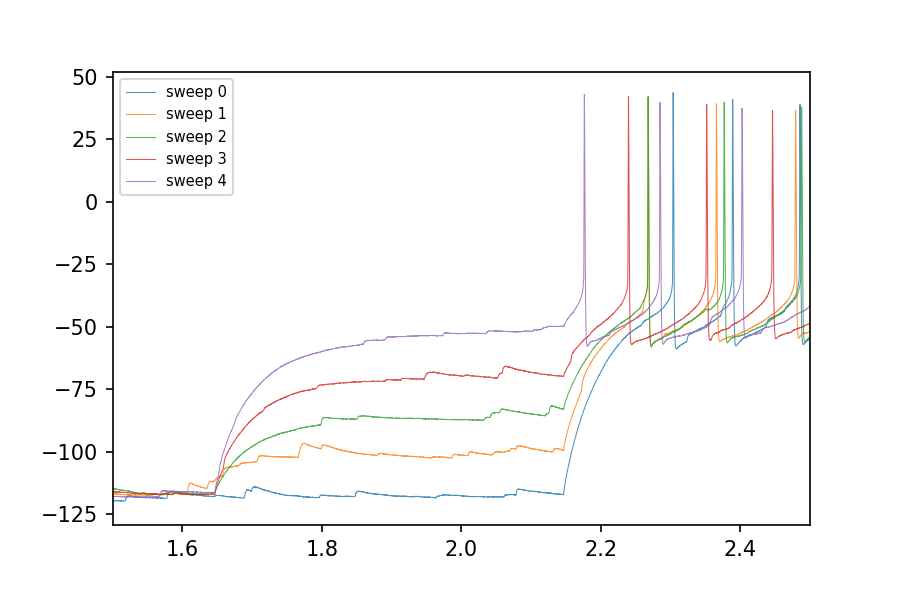
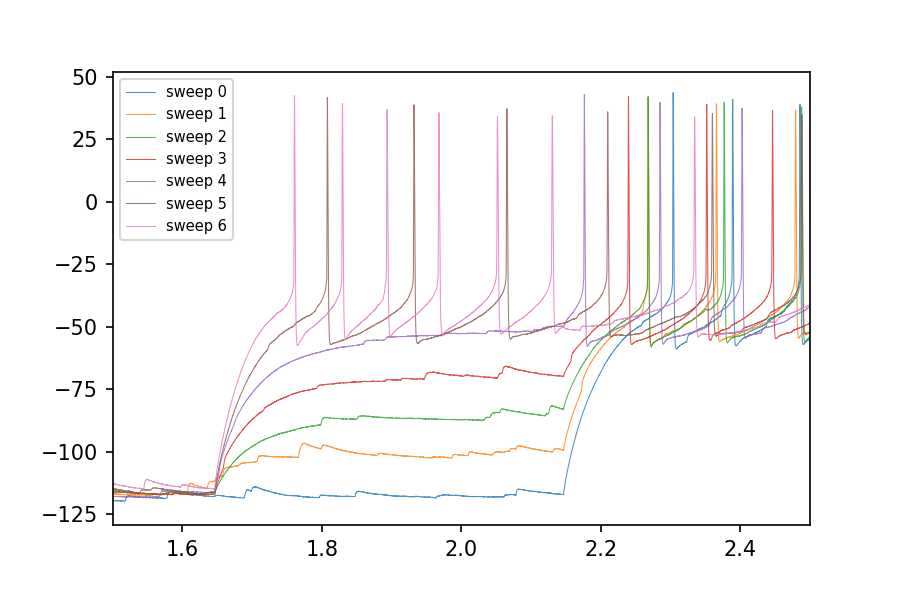
better demo figure

diff --git a/doc/abf-file-format/example code/2017-10-10 smaller cleaner/header.py b/doc/abf-file-format/example code/2017-10-10 smaller cleaner/header.py
@@ -249,7 +249,7 @@ if __name__=="__main__":
     import numpy as np
 
     times = abfHeader.getTimesSweep()
-    for sweepNumber in range(5):
+    for sweepNumber in range(7):
         data=abfHeader.getDataSweep(sweepNumber)
         data=np.array(data)*abfHeader.header['signalScale']
         plt.plot(times,data,alpha=.8,lw=.5,label="sweep %d"%sweepNumber)
